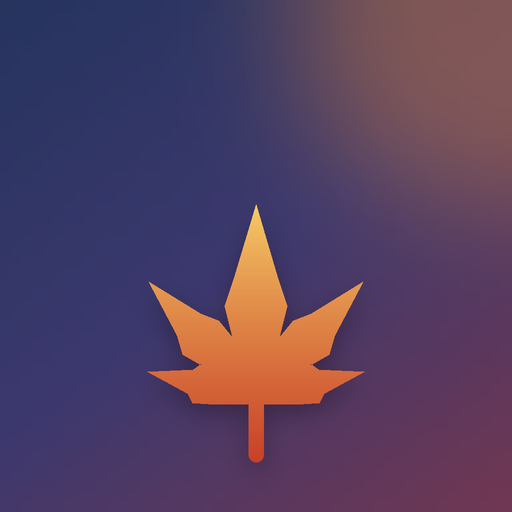
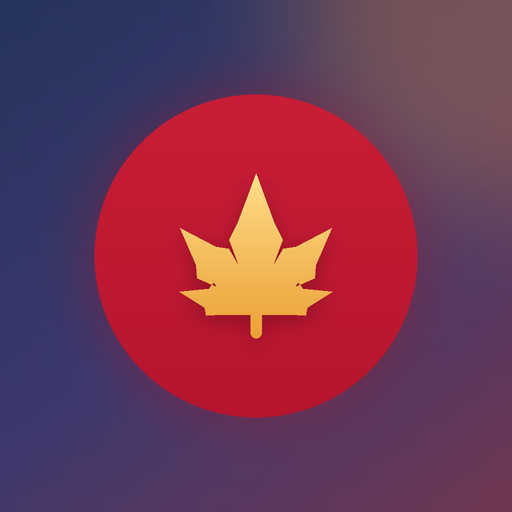
Le Fuji enneigé, et le drapeau dans l'icône
Bandeau : sommet recentré au milieu de la page, pentes symétriques et
calotte neigeuse à la ligne dentelée — sans elle, la silhouette se
lisait comme une simple colline.

Icône : disque rouge du drapeau japonais en fond, feuille d'érable
recentrée sur sa boîte réelle (elle était calée sur sa base, donc
trop basse), lobes élargis et queue raccourcie.

diff --git a/installer.html b/installer.html
@@ -44,7 +44,7 @@ h1,h2,h3{margin:0}
 .top h1{font-family:var(--serif);font-weight:700;font-size:clamp(25px,7.4vw,32px);line-height:1.1}
 .top p{margin:5px 0 0;opacity:.8;font-size:13.5px}
 .fuji{position:absolute;left:-1px;right:-1px;bottom:-1px;width:calc(100% + 2px);height:70px;display:block;z-index:1}
-.fuji .m{fill:var(--bg)} .fuji .r{fill:none;stroke:rgba(255,255,255,.22);stroke-width:1.4}
+.fuji .m{fill:var(--bg)} .fuji .n{fill:#D5E3F6} .fuji .r{fill:none;stroke:rgba(255,255,255,.22);stroke-width:1.4}
 main{position:relative;z-index:1;padding:4px 18px calc(40px + var(--safe-b));max-width:620px;margin:0 auto}
 .intro{font-size:15px;color:var(--mute);margin:18px 2px 24px}
 .intro b{color:var(--ink);font-weight:700}
@@ -87,8 +87,11 @@ main{position:relative;z-index:1;padding:4px 18px calc(40px + var(--safe-b));max
     <div><h1>Japon 2026</h1><p>L'app du voyage, à poser sur ton écran d'accueil</p></div>
   </div>
   <svg class="fuji" viewBox="0 0 390 70" preserveAspectRatio="none" aria-hidden="true">
-    <path class="r" d="M-2 59 Q62 57 112 42 Q152 20 174 10 Q182 6 190 10 Q214 21 256 42 Q308 57 392 59"/>
-    <path class="m" d="M-2 70V59Q62 57 112 42 152 20 174 10q8-4 16 0Q214 21 256 42q52 15 136 17v11z"/>
+    <path class="r" d="M-2 59 Q75 57 125 42 Q165 20 187 10 Q195 5.5 203 10 Q225 20 265 42 Q315 57 392 59"/>
+    <path class="m" d="M-2 70V59 Q75 57 125 42 Q165 20 187 10 Q195 5.5 203 10 Q225 20 265 42 Q315 57 392 59 V70Z"/>
+    <path class="n" d="M161 23.5 Q176 15 187 10 Q195 5.5 203 10 Q214 15 229 23.5
+      L223 20.4 L218 25.6 L212 21.3 L206.5 27 L201 21.8 L196 25.1 L190.5 20.9 L185 26.5
+      L179.5 21.5 L174 24.7 L168 21.1 L163.5 24.2Z"/>
   </svg>
 </header>
 

diff --git a/index.html b/index.html
@@ -97,6 +97,8 @@ button{font:inherit}
 @keyframes ping{0%{box-shadow:0 0 0 0 rgba(224,169,68,.6)}70%{box-shadow:0 0 0 9px rgba(224,169,68,0)}100%{box-shadow:0 0 0 0 rgba(224,169,68,0)}}
 .fuji{position:absolute;left:-1px;right:-1px;bottom:-1px;width:calc(100% + 2px);height:76px;display:block;z-index:1}
 .fuji .m{fill:var(--bg)}
+/* la neige reste claire dans les deux modes : elle fait lire la montagne */
+.fuji .n{fill:#D5E3F6}
 .fuji .r{fill:none;stroke:rgba(255,255,255,.22);stroke-width:1.4}
 
 /* ======================= mise en page ======================= */
@@ -347,8 +349,11 @@ button:focus-visible,a:focus-visible,summary:focus-visible{outline:2px solid var
     </div>
   </div>
   <svg class="fuji" viewBox="0 0 390 76" preserveAspectRatio="none" aria-hidden="true">
-    <path class="r" d="M-2 64 Q62 62 112 46 Q152 22 174 11 Q182 6.5 190 11 Q214 23 256 46 Q308 62 392 64"/>
-    <path class="m" d="M-2 76V64Q62 62 112 46 152 22 174 11q8-4.5 16 0Q214 23 256 46q52 16 136 18v12z"/>
+    <path class="r" d="M-2 64 Q75 62 125 46 Q165 22 187 11 Q195 6.5 203 11 Q225 22 265 46 Q315 62 392 64"/>
+    <path class="m" d="M-2 76V64 Q75 62 125 46 Q165 22 187 11 Q195 6.5 203 11 Q225 22 265 46 Q315 62 392 64 V76Z"/>
+    <path class="n" d="M160.5 25.3 Q176 16.5 187 11 Q195 6.5 203 11 Q214 16.5 229.5 25.3
+      L223 22 L218 27.5 L212 23 L206.5 29 L201 23.5 L196 27 L190.5 22.5 L185 28.5
+      L179.5 23.2 L174 26.6 L168 22.8 L163.5 26Z"/>
   </svg>
 </header>
 

diff --git a/sw.js b/sw.js
@@ -1,6 +1,6 @@
 // Garde l'app disponible hors ligne (métro, avion…).
 // Changez VERSION à chaque mise à jour pour forcer le rafraîchissement.
-const VERSION = 'japon-v12';
+const VERSION = 'japon-v13';
 const FILES = ['./', 'index.html', 'installer.html', 'app.js', 'data.js', 'icones-apps.js', 'manifest.webmanifest', 'icon-192.png', 'icon-512.png'];
 
 self.addEventListener('install', e => e.waitUntil(
